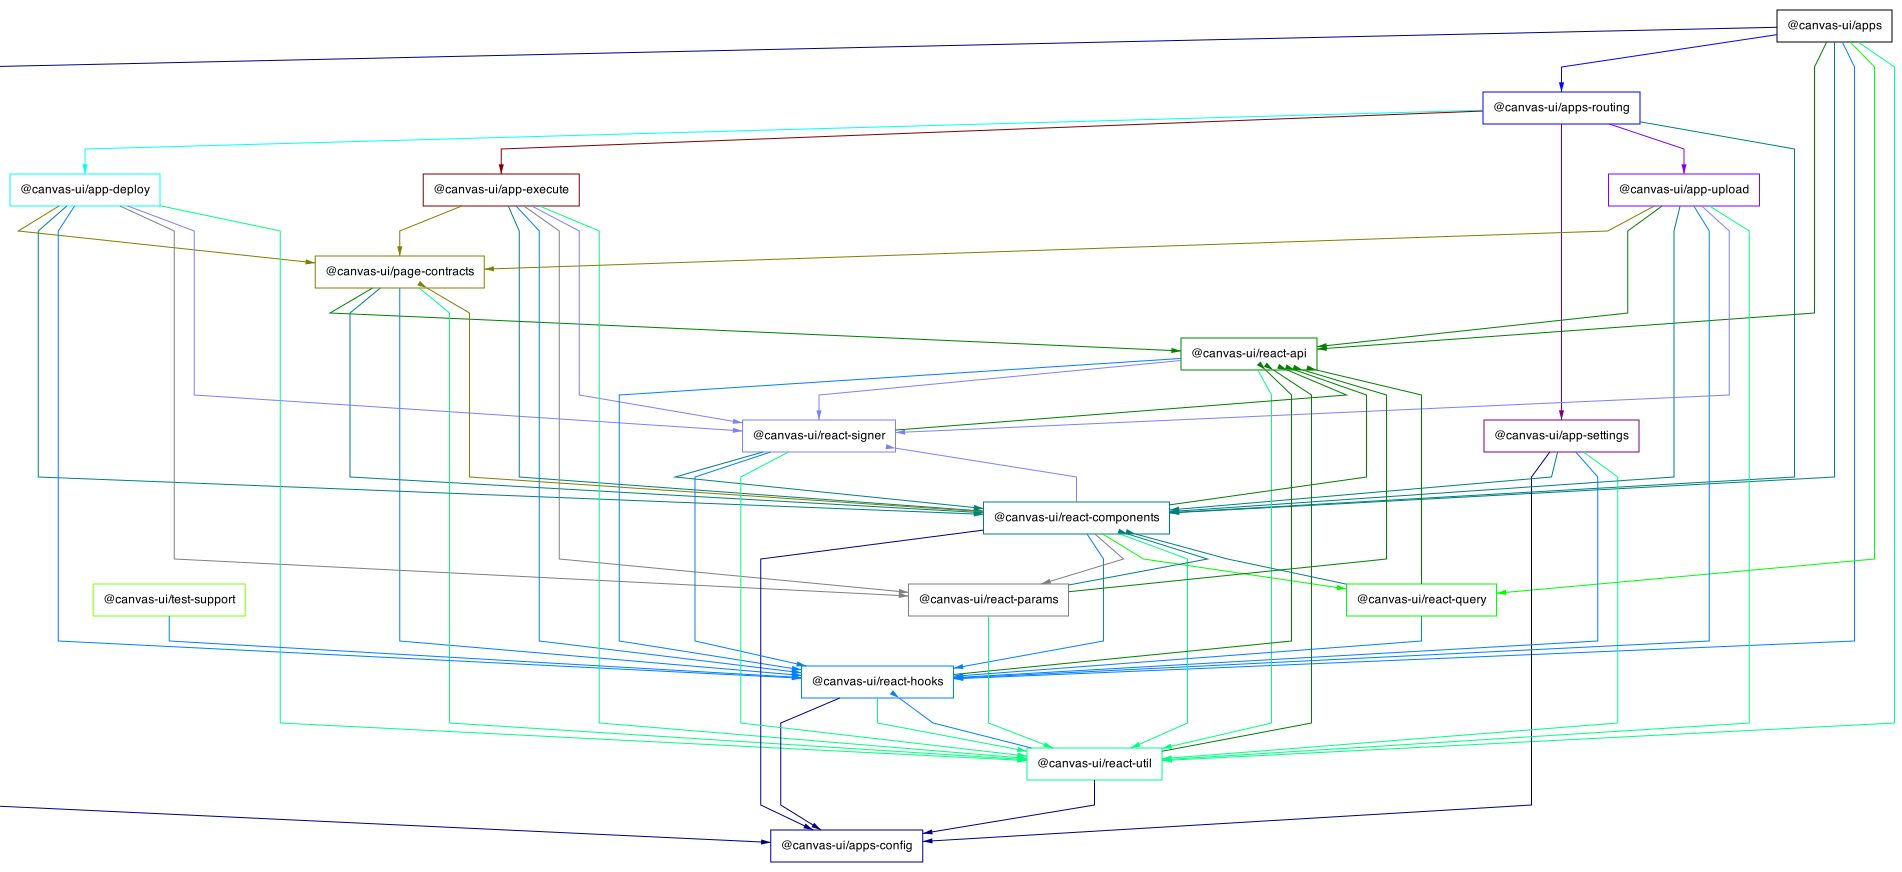
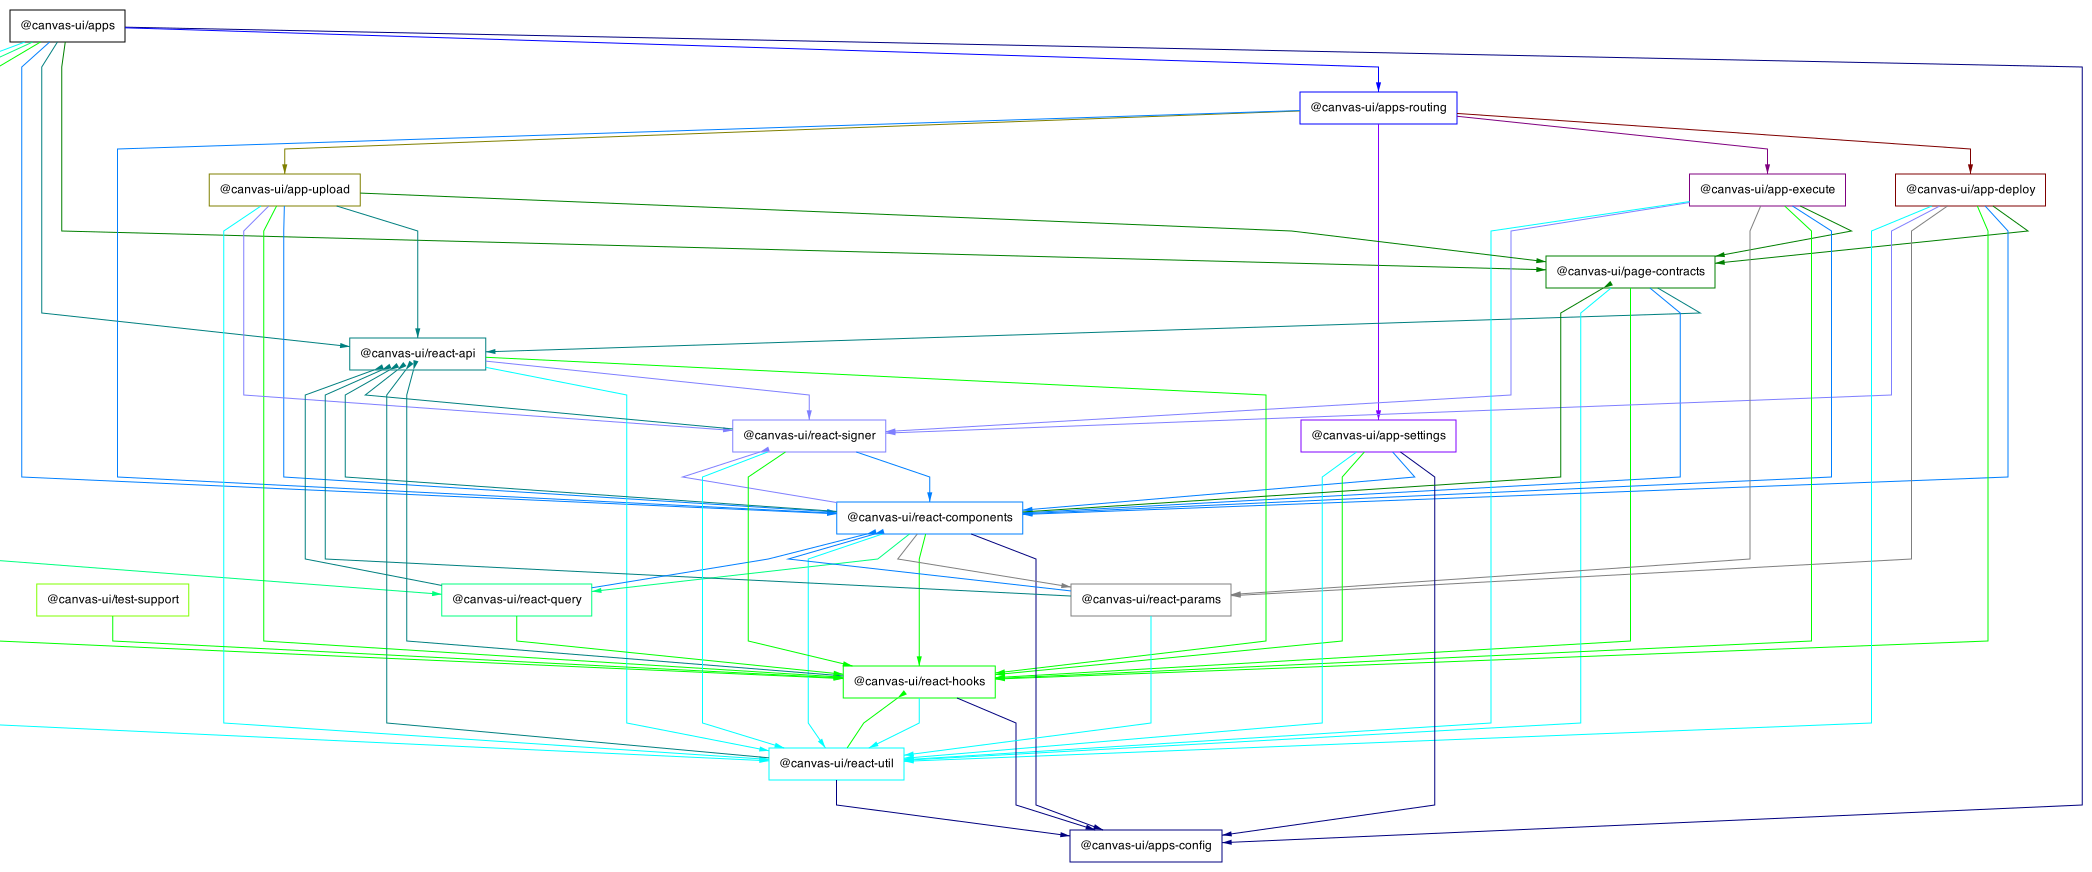
fixed deps useSendTx

diff --git a/packages/react-api/src/useSendTx.ts b/packages/react-api/src/useSendTx.ts
@@ -21,9 +21,9 @@ import keyring from '@polkadot/ui-keyring';
 import { assert, BN_ZERO } from '@polkadot/util';
 import { blake2AsU8a } from '@polkadot/util-crypto';
 
-import ledgerSigner from '../../react-signer/src/LedgerSigner';
-import { AddressFlags, AddressProxy } from '../../react-signer/src/types';
-import { extractExternal, handleTxResults } from '../../react-signer/src/util';
+import ledgerSigner from '@canvas-ui/react-signer/LedgerSigner';
+import { AddressFlags, AddressProxy } from '@canvas-ui/react-signer/types';
+import { extractExternal, handleTxResults } from '@canvas-ui/react-signer/util';
 
 interface UseSendTx {
   addQrSignature: (_: { signature: string }) => void;
